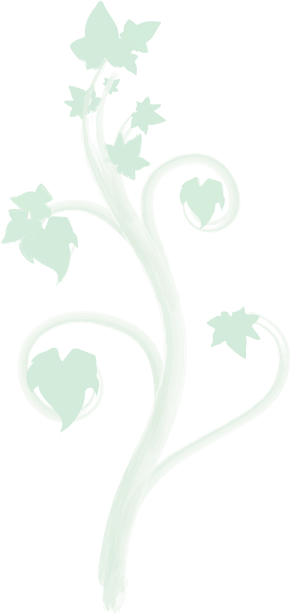
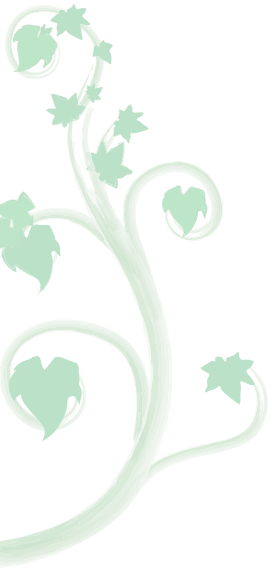
Style custom login page

diff --git a/www/css/toorak/screen.less b/www/css/toorak/screen.less
@@ -36,7 +36,11 @@
 
 html, body { min-height: 100%; }
 body {
-	background: @background-color url('/images/toorak/ivy-bg.png') -1% 144% no-repeat;
+	background: @background-color url('/images/toorak/ivy-bg.png') bottom left no-repeat;
+}
+
+#wrap{
+  background: url('/images/toorak/ivy-bg-2.png') 100% -6px no-repeat;
 }
 
 #container {
@@ -54,11 +58,113 @@ a, h2 a{color:@link-color;}
 a:hover{color:@link-hover-color;}
 
 /*
+ * Login
+ */
+img.bg{
+  /* Set rules to fill background */
+  min-height: 100%;
+  min-width: 1024px;
+
+  /* Set up proportionate scaling */
+  width: 100%;
+  height: auto;
+
+  /* Set up positioning */
+  position: fixed;
+  top: 0;
+  left: 0;
+}
+
+.login #header{
+  background: transparent;
+}
+
+.login #iVE{
+  position: absolute;
+  left: 50%;
+  top: 61px;
+  margin-left: 274px;
+}
+
+.login #header .logo{
+  left: 50%;
+  top: 2px;
+  margin-left: -555px;
+}
+
+.login #header .logo,
+.login #header .logo img{
+  height: 282px;
+  width: 287px;
+}
+
+.login #container {
+  background-color: rgba(0, 38, 100, 0.5);
+  padding: 30px;
+  width: 335px;
+  left: 50%;
+  top: 240px;
+  margin: 0 0 0 -195px;
+  position: absolute;
+  min-width: 335px;
+  border: 0;
+}
+
+.login #content {
+  min-width: 335px;
+  color: #fff;
+}
+
+#loginForm label{
+  width: 100%;
+}
+
+#loginForm input[type=text],
+#loginForm input[type=password]{
+  border: 0;
+  height: 28px;
+  padding: 4px 10px;
+  width: 310px !important;
+  font-weight: bold;
+  color: #002664;
+}
+
+#loginForm input.login{
+  background: #c4262e;
+  font-weight: bold;
+  font-size: 16px;
+  height: 30px;
+  width: 140px;
+}
+
+#loginForm input.login:hover{
+  opacity: 0.9;
+}
+
+.login #footer {
+  padding-left: 37px;
+  position: absolute;
+  bottom: 10px;
+  left: 50%;
+  margin-left: -525px;
+}
+
+.login .forgotten a{
+  color: #fff;
+  text-decoration: underline;
+}
+
+.login ::-webkit-input-placeholder{
+  color: #002664;
+  font-size: 16px;
+}
+
+/*
  * Header
  */
-#header, .login #header{
-	background: @banner-background;
-	height: auto; min-height: @banner-height;
+#header{
+    background: url('/images/toorak/iVE.png') 200px 8px no-repeat;
+	height: 80px; min-height: @banner-height;
 	width: 100%; min-width: 768px;
 	float: left;
 }
@@ -114,7 +220,7 @@ a:hover{color:@link-hover-color;}
 /*
  * Tabs
  */
-#tabs{		position: static; margin-left: @navigation-width; clear: right;
+#tabs{		position: absolute; clear: right; left: 200px;
 	li { 	margin-right: 1px; margin-top: 1px;
 		a {
 			background: transparent;
@@ -305,8 +411,8 @@ ul.activity-list li,
  */
 #footer { margin: 0; margin-left: @navigation-width; }
 #footer ul {float:right;padding-right: 16px;}
-#footer ul li {color:@footer-color; margin-right: 4px; padding-right: 8px;}
-#footer ul li a{color:@footer-links; white-space: nowrap;}
+#footer ul li {color:#fff; margin-right: 4px; padding-right: 8px;}
+#footer ul li a{color:#fff; white-space: nowrap;}
 
 
 .topic-list li a {

diff --git a/templates/toorak/common/login.html b/templates/toorak/common/login.html
@@ -1,0 +1,64 @@
+<!DOCTYPE html PUBLIC "-//W3C//DTD XHTML 1.0 Strict//EN" "http://www.w3.org/TR/xhtml1/DTD/xhtml1-strict.dtd">
+<html xmlns="http://www.w3.org/1999/xhtml">
+<!--  Copyright 2005 Lektec Consulting Melbourne Australia -->
+<!--  Visit us at www.lektec.com.au -->
+<head>
+<title>{TITLE}</title>
+<meta http-equiv="Content-Type" content="text/html; charset=utf-8" />
+<meta http-equiv="Content-Language" content="en-au" />
+<meta name="author" content="James Leckie, Lektec Consulting"/>
+<link rel="stylesheet" type="text/css" media="screen" href="/css/core/core.css" />
+<link rel="stylesheet" type="text/css" media="screen" href="/css/toorak/screen.css" />
+    <link rel="Shortcut Icon" href="/images/toorak/favicon.ico" type="image/x-icon" />
+<script type="text/javascript">
+window.onload = init;
+function init(){
+	document.getElementById('username').focus();
+}
+</script>
+</head>
+<body class="login">
+    <img class="bg" src="/images/toorak/login-bg.png" />
+	<div id="header">
+		<a href="/" class="logo"><img src="/images/toorak/logo-glow.png" width="287" height="282" alt="Toorak College - Mount Eliza" /></a>
+        <img id="iVE" src="/images/toorak/iVE-glow.png" />
+	</div>
+
+<div id="container" class=" login">
+
+  <div id="content">
+    <p class="error">{ERROR}</p>
+    <form id="loginForm" method="post" action="/loginForm.php">
+    	<fieldset>
+        <!--<label for="username">Login Name:</label>-->
+        <input type="text" name="username" id="username" placeholder="Username" />
+      </fieldset>
+      <fieldset>
+          <!--<label for="password">Password:</label>-->
+          <input type="password" name="password" id="password" placeholder="Password" />
+        </fieldset>
+          <input type="hidden" name="page" value="{HIDDEN}" />
+          <input class="login submit-btn-plain" type="submit" name="Submit" value="Sign in" alt="Login" />
+          <div class="float-fix"></div>
+      </form>
+       <p class="forgotten"><a href="/forgotten-password.php">Parents, forgotten your password?</a></p>
+        <div class="float-fix"></div>
+  </div>
+</div>
+
+<div id="footer" class="login">
+	<ul>
+	<li>{TEMPLATE_YEAR} &copy; Copyright <a href="{SCHOOL_ADDRESS}">{SITE_NAME}</a></li>
+	<li><a href="/policy.php">Guidelines of Use and Privacy Policy</a></li>
+    <li>Powered by <a href="http://www.schoolbox.com.au" title="Virtual Learning Environment, Learning Management System, LMS">Schoolbox</a></li>
+    <!-- BEGIN mobile_switch -->
+<li><a href="/switch.php?v=mobile">Switch to Mobile</a></li>
+<!-- END mobile_switch -->
+    <li><a href="http://alaress.com.au" title="Web Development Melbourne">Web Development</a> by <a href="http://alaress.com.au">Alaress</a></li>
+	<li class="last"><a href="/feedback.php" title="Web Designers">Feedback and Support</a></li>
+  </ul>
+</div>
+</body>
+</html>
+
+
